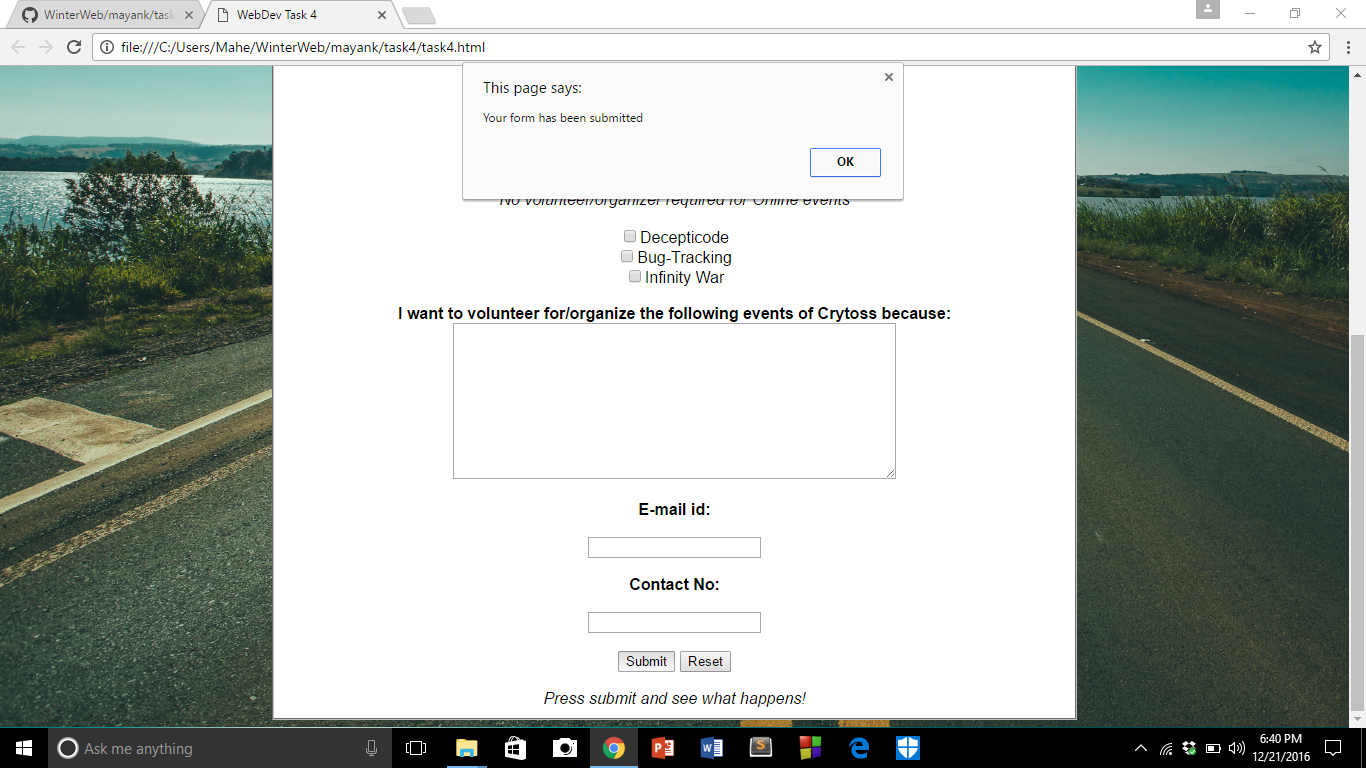
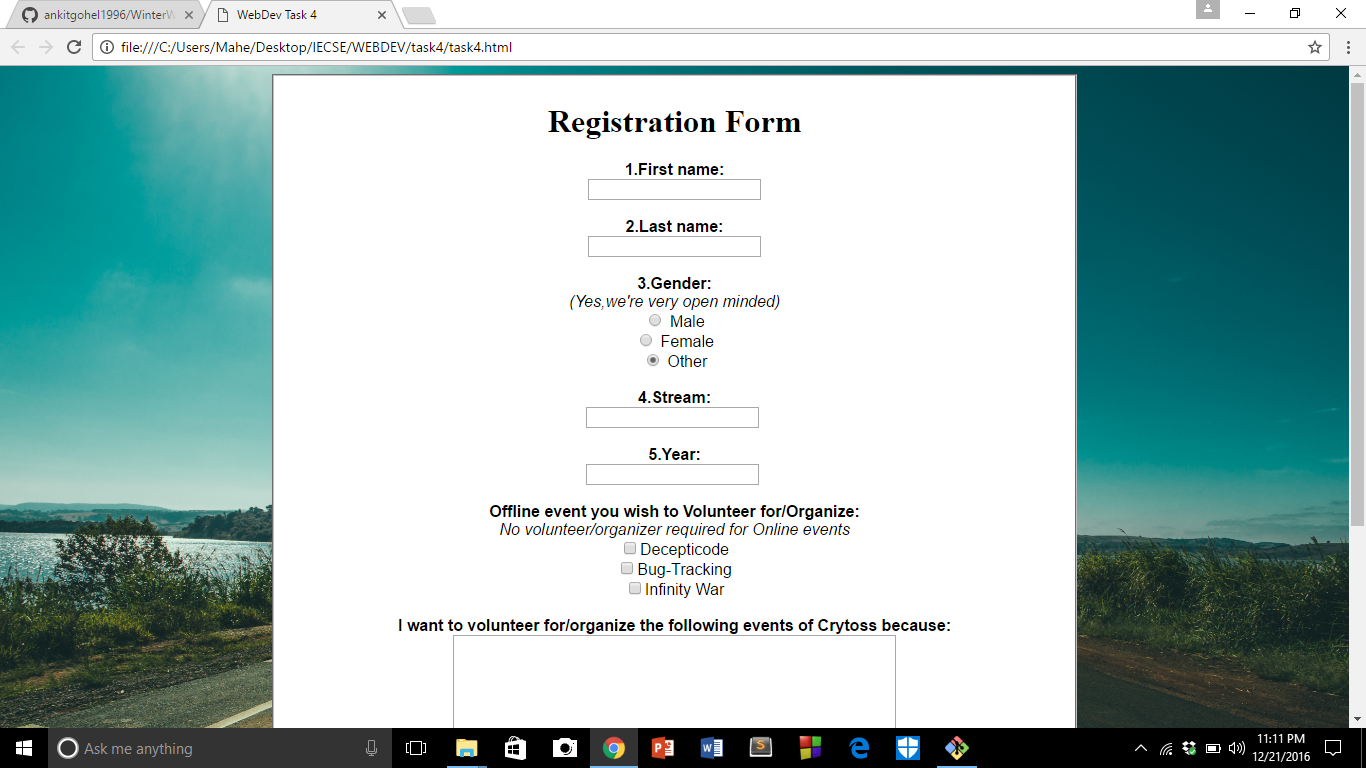
Task 4

diff --git a/mayank/task4/task4.html b/mayank/task4/task4.html
@@ -5,34 +5,26 @@
 		<link rel="stylesheet" type="text/css" href="task4.css"/>
 		</head>
 
-
 <body>
 
 	<form action= "action_page.php">
 	<fieldset>
-	<legend><b>Registration Form:</b></legend>
+	<h1>Registration Form</h1>
 
-
-	<b>Personal Information:</b><br><br>
-
-	<b>1.First name:</b><br><br>
+	<b>1.First name:</b><br>
 	<input type= "text" name="firstname" ><br><br>
-	<b>2.Last name:</b><br><br>
+	<b>2.Last name:</b><br>
 	<input type= "text" name="lastname" ><br><br>
 
 
 	<b>3.Gender:</b><br>
-	<i>(Yes,we're very open minded)</i><br><br>
+	<i>(Yes,we're very open minded)</i><br>
 	<input type= "radio" name= "gender" value= "male" checked> Male<br>
 	<input type= "radio" name= "gender" value= "female" checked> Female<br>
 	<input type= "radio" name= "gender" value= "other" checked> Other<br><br>
+	<b>4.Stream:</b><br>
 
 
-	
-
-	<b>Academic Information:</b><br><br>
-
-	<b>1.Stream:</b><br><br>
 	<input list="Stream" name="stream">
 	<datalist id="Stream">
 		<option value= "Computer Science"></option>
@@ -47,7 +39,7 @@
 		<option value= "Instrumentation and Control"></option>
 	</datalist><br><br>
 
-	<b>2.Year:</b><br><br>
+	<b>5.Year:</b><br>
 	<input list= "Year" name= "year">
 	<datalist id= "Year">
 		<option value= "First Year"></option>
@@ -56,7 +48,7 @@
 
 
 	<b>Offline event you wish to Volunteer for/Organize:</b><br>
-	<i>No volunteer/organizer required for Online events</i><br><br>
+	<i>No volunteer/organizer required for Online events</i><br>
 	<input type= "checkbox" name= "event1" value= "decepticode">Decepticode<br>
 	<input type= "checkbox" name= "event2" value= "bugtracking">Bug-Tracking<br>
 	<input type= "checkbox" name= "event3" value= "infinitywar">Infinity War<br><br>
@@ -65,14 +57,12 @@
 	<b>I want to volunteer for/organize the following events of Crytoss because:</b><br>
 	<textarea name= "messsage" rows= "10" cols= "60"></textarea><br><br>
 
-	<b>E-mail id:</b><br><br>
+	<b>E-mail id:</b><br>
 	<input type= "email" name= "email"><br><br>
 
-	<b>Contact No:</b><br><br>
+	<b>Contact No:</b><br>
 	<input type= "tel" name= "usertel"><br><br>
 
-
-	
 
 	<input type= "submit" onclick= "alert('Your form has been submitted')" value="Submit">
 	<input type= "reset"><br><br>

diff --git a/mayank/task4/task4.css b/mayank/task4/task4.css
@@ -9,19 +9,13 @@ body {
 	
 }
 
+h1{
+	font-family: serif;
+}
 
 fieldset{
 	background-color: white;
-	
-
 }
 
 
-
-legend {
-	font-size: 30px;
-	font-family: serif;
-	
-
-}
 
